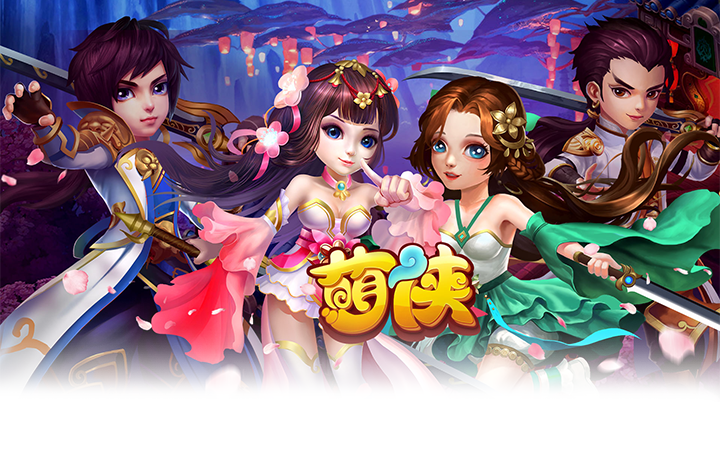
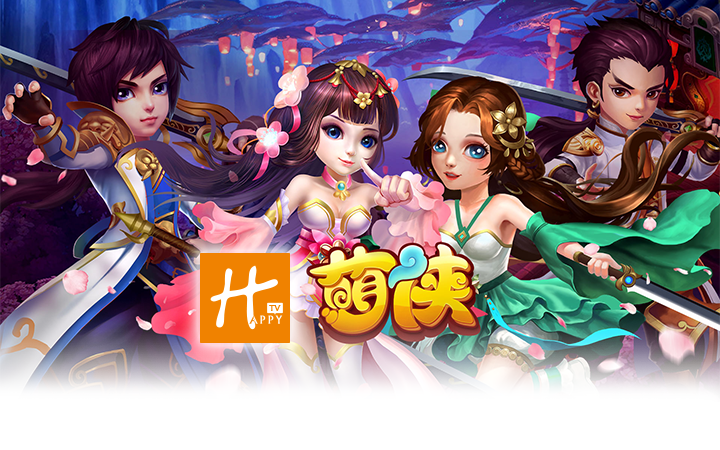
add 3 digital-taipei-pages

Changed region(s): [[0.2444, 0.5289, 0.4278, 0.8089]]

diff --git a/digital-taipei-promotion-3.html b/digital-taipei-promotion-3.html
@@ -73,12 +73,12 @@
       </div>
       <!--info content-->
       <div id='promotion-code-area-1' style="display: none">
-        <!--logos
-        <div class="row logo">
+        <!--logos-->
+        <!--<div class="row logo">
          <div class="col-lg-4 col-md-10 col-xs-10 col-md-offset-1 col-xs-offset-1">
           <img class="img-responsive" src="images/dt/1-logo.png">
          </div>
-        </div>-->
+       </div>-->
 
           <div class="row newLogin">
             <h3 align="center">恭喜你獲得的序號是</h3>
@@ -95,7 +95,7 @@
 
         <div id='no-more-promotion-code' style="display: none">
           <div class="row newfb" >
-            <h3 align="center" style="margin-bottom: 20px; color:#ca1e0e" >序號已領取完畢!</h3>
+            <h3 align="center" style="margin-bottom: 20px;" >序號已領取完畢!</h3>
 
            </div>
 
@@ -112,7 +112,7 @@
 
     <!-- Latest compiled and minified JavaScript -->
     <script src="https://maxcdn.bootstrapcdn.com/bootstrap/3.3.7/js/bootstrap.min.js" integrity="sha384-Tc5IQib027qvyjSMfHjOMaLkfuWVxZxUPnCJA7l2mCWNIpG9mGCD8wGNIcPD7Txa" crossorigin="anonymous"></script>
-    <link href="css/happyTV-digital-taipei-2.css" rel="stylesheet">
+    <link href="css/happyTV-digital-taipei-3.css" rel="stylesheet">
 
     <script src="/js/js.cookie.js" ></script>
     <script type="text/javascript" src='/js/login-digital-taipei-2017.js'></script>

diff --git a/css/happyTV-digital-taipei-3.css b/css/happyTV-digital-taipei-3.css
@@ -2,8 +2,8 @@ body{
 	position: relative;
 	font-family: "儷黑 Pro", "微軟正黑體";
 	background-attachment: fixed;
-	background-image: url(../images/dt/17-bg.png);
-	background-color: #532e7e;
+	background-image: url(../images/dt/2-bg.png);
+	background-color: #fff;
 	background-repeat: no-repeat;
 	-o-background-size     : 100%, auto;
   -moz-background-size   : 100%, auto;
@@ -31,9 +31,10 @@ hr{
 	border-top: 1px solid #d2d2d2;
 }
 h3{
-	color: #551f94;
+	color: #991934;
 	padding-bottom: 0px;
 	font-weight: 400;
+	margin-top: 5px;
 }
 h4{
 	color: #666;
@@ -326,7 +327,7 @@ ul.google-plus li img {
     padding: 10px 15px;
     border: 0px ;
     border-radius: 5px;
-    margin-top: 40%;
+    margin-top: 44%;
     margin-left: 0px;
     margin-right: 0px;
 
@@ -336,7 +337,7 @@ ul.google-plus li img {
     padding: 10px 15px;
     border: 0px ;
     border-radius: 5px;
-    margin-top: 40%;
+    margin-top: 50%;
     margin-left: 0px;
     margin-right: 0px;
 
@@ -431,7 +432,7 @@ ul.google-plus li img {
 
 .code-block{
 	float: left;
-	background: #e6ad04;
+	background: #aa1e3c;
 	color: #fff;
 	padding: 12px 40px;
 	text-align: -webkit-center;
